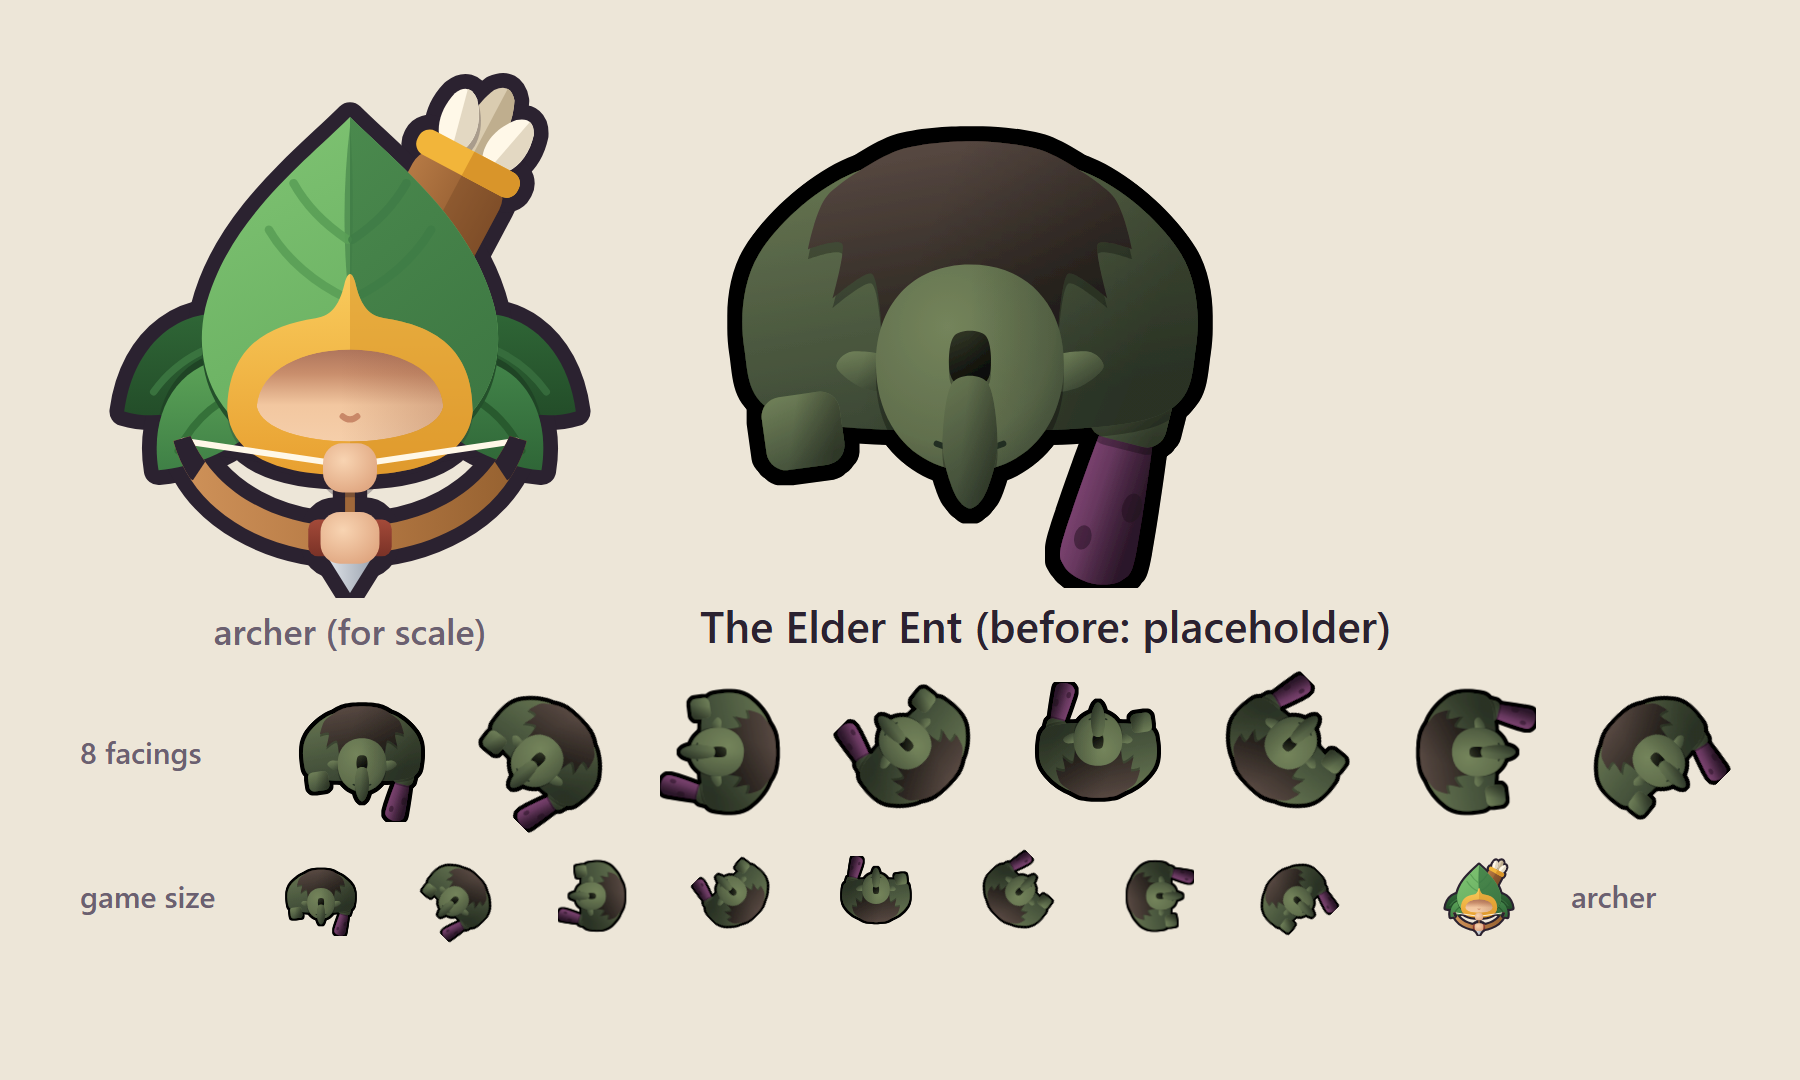
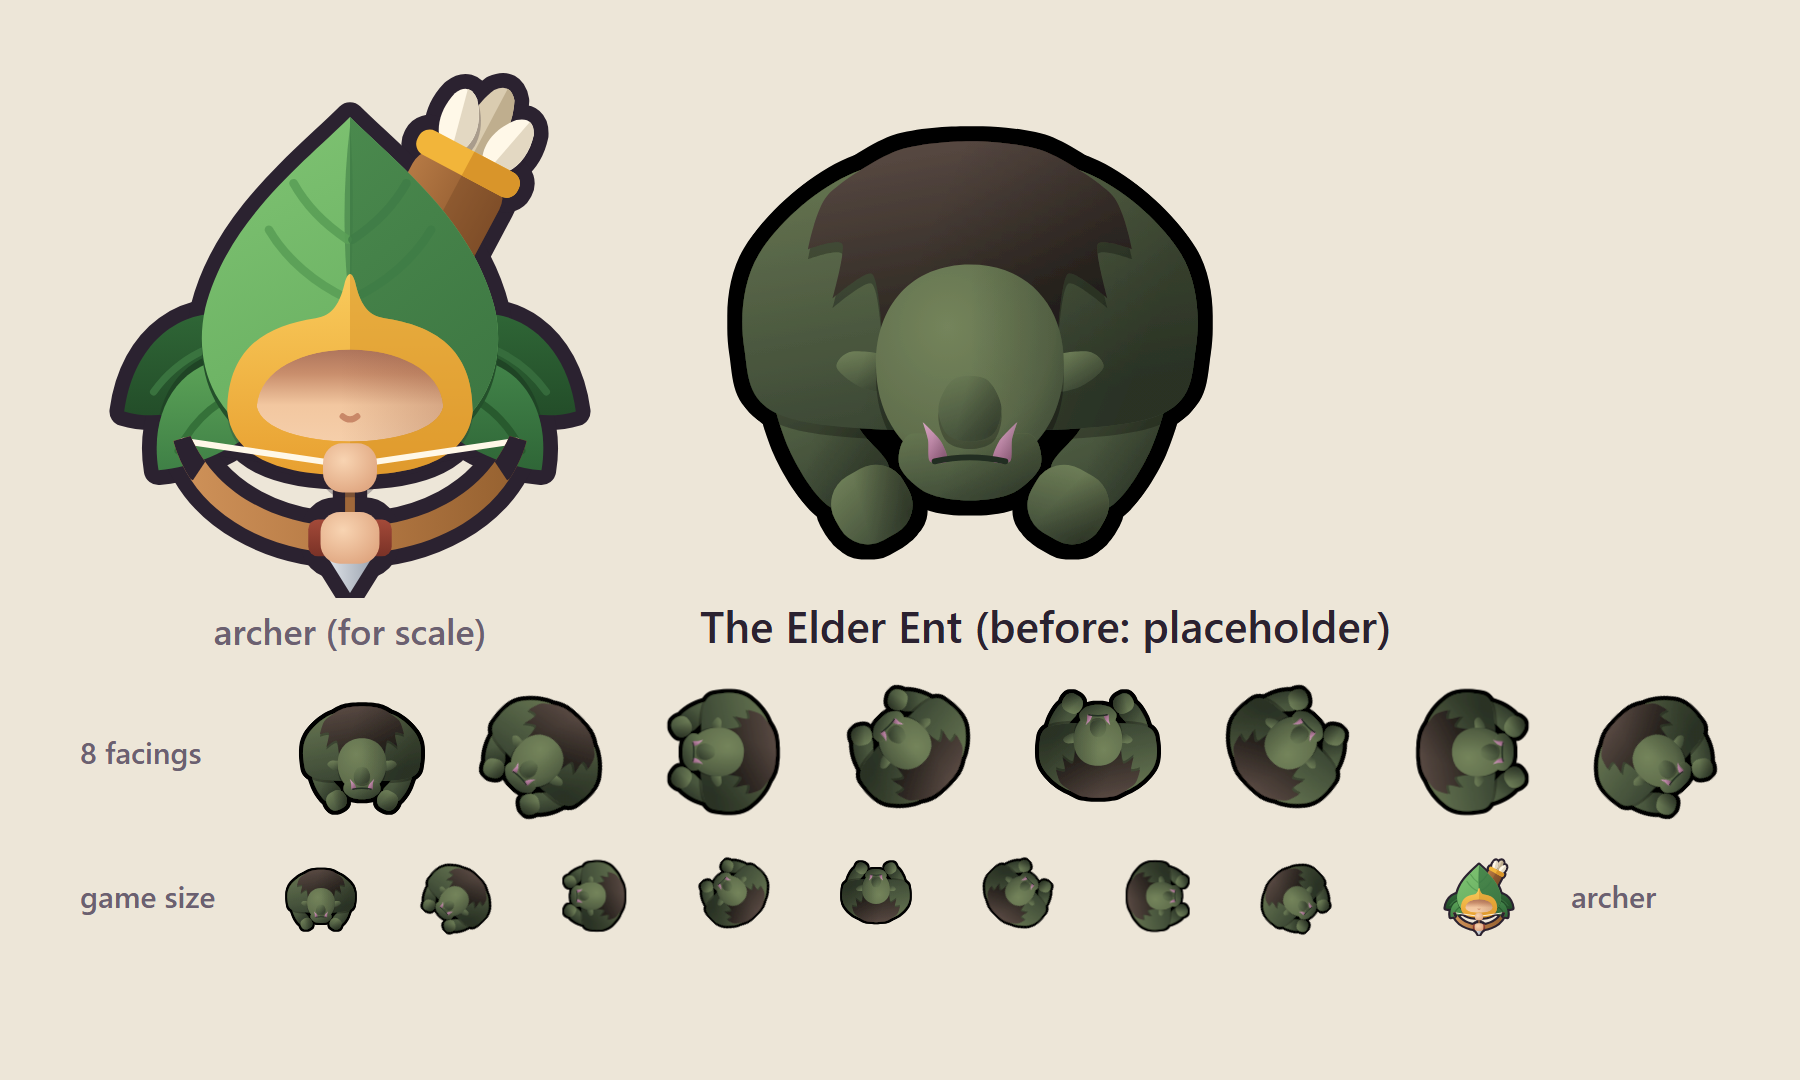
Art round 8: the greatsword held in front the Old Guard's way, the Elder Ent's ragged beard; check8 covers the croc and every round-8 file; notes

diff --git a/design/class-round8/_src/check8.py b/design/class-round8/_src/check8.py
@@ -1,7 +1,7 @@
 """Check the round-8 generators against the files the designer saw.
-1. A copy of this _src with every round-8 switch turned off (*_R8) must give the round-7 orc and ghosts and the round-6
-   troll (the "(before)" tile the troll note was on; also the game's art/enemies/troll.svg) byte for byte, so each
-   round-8 change is only what its switch adds.
+1. A copy of this _src with every round-8 switch turned off (*_R8) must give the round-7 orc and ghosts, the round-7
+   Croc A (the croc's two axes are CROC_R8) and the round-6 troll (the "(before)" tile the troll note was on, and the
+   game's troll before this round) byte for byte, so each round-8 change is only what its switch adds.
 2. build8.py must rebuild the committed round-8 files byte for byte.
 The copies are built in design/_check8 (deleted afterwards). python check8.py   (paths relative to this file)"""
 import re, sys, shutil, subprocess, pathlib
@@ -31,7 +31,7 @@ def copy_src(off):
 bad, n = [], 0
 try:
     src, found = copy_src(True)
-    need = {"ORC_R8", "GHOST_R8", "TROLL_R8"}
+    need = {"ORC_R8", "GHOST_R8", "TROLL_R8", "CROC_R8"}
     if need - found:
         bad.append(f"switches not found: {sorted(need - found)}")
     out = TMP / "off"
@@ -45,16 +45,17 @@ import greenskins as g, critters as c
 (out / "greenskin-troll.svg").write_text(g.troll().svg(), encoding="utf-8")
 for t in "ab":
     (out / f"ghost-{t}.svg").write_text(c.ghost7(t).svg(), encoding="utf-8")
-""", str(src / "E3"), str(out)], check=True, stdout=subprocess.DEVNULL)
+sys.path.insert(0, sys.argv[3])
+import croc8
+(out / "lizardman-croc-a.svg").write_text(croc8.croc(False), encoding="utf-8")
+""", str(src / "E3"), str(out), str(src)], check=True, stdout=subprocess.DEVNULL)
     refs = {"greenskin-orc.svg": R7 / "enemies/greenskin-orc.svg", "ghost-a.svg": R7 / "enemies/ghost-a.svg",
-            "ghost-b.svg": R7 / "enemies/ghost-b.svg", "greenskin-troll.svg": R6 / "enemies/greenskin-troll.svg"}
+            "ghost-b.svg": R7 / "enemies/ghost-b.svg", "greenskin-troll.svg": R6 / "enemies/greenskin-troll.svg",
+            "lizardman-croc-a.svg": R7 / "enemies/lizardman-croc-a.svg"}
     for name, ref in refs.items():
         n += 1
         if (out / name).read_bytes() != ref.read_bytes():
             bad.append(f"[off] {name} differs from {ref.relative_to(DESIGN).as_posix()}")
-    n += 1
-    if (R6 / "enemies/greenskin-troll.svg").read_bytes() != (HERE.parents[2] / "art/enemies/troll.svg").read_bytes():
-        bad.append("[off] the round-6 troll is not the game's art/enemies/troll.svg")
     # 2. build8.py -> the committed files
     src, _ = copy_src(False)
     subprocess.run([sys.executable, str(src / "build8.py")], check=True, stdout=subprocess.DEVNULL, cwd=src)

diff --git a/design/class-round8/_src/A2/bandits8.py b/design/class-round8/_src/A2/bandits8.py
@@ -76,7 +76,7 @@ def dagger(S, T, L=44):
     fist(S, 0, -6, T=T)
 
 
-def greatsword(S, T, L=72):
+def greatsword(S, T, L=84):
     S.shape(rr(0, -8, 10, 46, 4), "#4A3226", T=T, shadow=0)
     S.shape(circ(0, -32, 6.5), BRASS, T=T, shadow=0)
     blade = [(-11, 20), (11, 20), (10, L), (0, L + 18), (-10, L)]
@@ -125,8 +125,8 @@ def hood(S, col, tail=True):
 
 
 def kettle_hat(S, col="#8E96A4"):
-    S.shape(ell(100, 80, 62, 48), col, shadow=5, decor=f'<path d="{ell(100, 80, 52, 38)}" fill="{shade(col, 0.85)}" opacity="0.5"/>')
-    S.shape(ell(100, 76, 40, 36), col, shadow=4, decor=f'<path d="{ell(88, 64, 16, 11)}" fill="#F4F6FA" opacity="0.35"/>')
+    S.shape(ell(100, 78, 56, 44), col, shadow=5, decor=f'<path d="{ell(100, 78, 47, 35)}" fill="{shade(col, 0.85)}" opacity="0.5"/>')
+    S.shape(ell(100, 74, 37, 33), col, shadow=4, decor=f'<path d="{ell(89, 63, 15, 10)}" fill="#F4F6FA" opacity="0.3"/>')
 
 
 def fur_cap(S, col="#8A6A4A"):
@@ -178,13 +178,14 @@ def bandit_torch():
 
 def bandit_greatsword():
     S = Sprite("GREATSWORD BANDIT (round 8): the gang's tunic and red bandanna under an iron kettle hat with a broad round "
-               "brim; a big two-handed sword, both fists on the long grip at the right side, the blade forward and in "
-               "across the front (arm-r, before #body; no arm-l). " + LAYOUT)
-    S.group("arm-r", PR, "greatsword, both hands")
-    greatsword(S, frame(150, 126, 30))
+               "brim; a big two-handed sword held in front the Old Guard's way (the designer: two-handed weapons are held "
+               "in the middle, in front): both fists on the long grip at the front right, the wide blade forward and in "
+               "across the front (arm-r, after #body; no arm-l). " + LAYOUT)
     body(S, hair=False)
     masked(S)
     kettle_hat(S)
+    S.group("arm-r", PR, "greatsword, both hands, in front")
+    greatsword(S, frame(146, 116, 40))
     return save("enemies", "bandit-greatsword", S)
 
 

diff --git a/design/class-round8/_src/A2/grove8.py b/design/class-round8/_src/A2/grove8.py
@@ -202,9 +202,10 @@ def elder_ent():
             decor=strokes("M 82 58 L 86 96 M 118 58 L 114 96 M 100 54 L 100 82", DOLD, 3.5, 0.45)
                   + f'<path d="{ell(100, 102, 42, 10)}" fill="{DOLD}" opacity="0.4"/>')
     # the long mossy beard over the chest, the mouth above it
-    beard = blob([(70, 128), (86, 134), (100, 136), (114, 134), (130, 128), (134, 146), (126, 164), (116, 178), (106, 190),
-                  (100, 198), (94, 190), (84, 178), (74, 164), (66, 146)], 0.75)
-    S.shape(beard, "#5E7E44", shadow=4, decor=strokes("M 84 140 L 92 180 M 100 142 L 100 192 M 116 140 L 108 180", "#4A6A36", 3, 0.6))
+    # a ragged mossy beard: tufts hanging in uneven points (round 8: one smooth point read as a leaf)
+    beard = blob([(68, 128), (86, 134), (100, 136), (114, 134), (132, 128), (136, 146), (130, 164), (124, 160), (120, 178),
+                  (112, 172), (106, 192), (100, 182), (94, 194), (88, 172), (80, 178), (76, 160), (70, 164), (64, 146)], 0.6)
+    S.shape(beard, "#5E7E44", shadow=4, decor=strokes("M 86 140 L 90 168 M 100 142 L 100 178 M 114 140 L 110 166", "#4A6A36", 3, 0.6))
     S.shape(blob([(86, 112), (100, 108), (114, 112), (118, 126), (100, 134), (82, 126)], 0.9), "#241C1A", shadow=0, side=False)
     S.shape(ell(122, 66, 12, 7), MOSS, shadow=2)
     return save("enemies", "wild-elder-ent", S)

diff --git a/design/class-round8/_src/build8.py b/design/class-round8/_src/build8.py
@@ -73,6 +73,16 @@ def build(want=()):
         BOARDS.mkdir(parents=True, exist_ok=True)
         (BOARDS / "greenskin-troll-boulder.svg").write_text(both, encoding="utf-8")
         made.append(BOARDS / "greenskin-troll-boulder.svg")
+    # part 2: the new generators (each writes its own files into ../enemies), and the croc (Croc A with two axes)
+    import subprocess
+    if not want or any(n.startswith(("wild-", "bandit-", "sewer-")) for n in want):
+        for script in ("A2/wild8.py", "A2/bandits8.py", "A2/bandits8_more.py", "A2/grove8.py", "A2/sewer8.py"):
+            out = subprocess.run([sys.executable, str(HERE / script)], check=True, capture_output=True, text=True).stdout
+            made += [R8 / line.strip() for line in out.splitlines() if line.strip().endswith(".svg")]
+        import croc8
+        ENEMIES.mkdir(parents=True, exist_ok=True)
+        (ENEMIES / "sewer-croc.svg").write_text(croc8.croc(), encoding="utf-8")
+        made.append(ENEMIES / "sewer-croc.svg")
     return made
 
 

diff --git a/design/class-round8/notes.md b/design/class-round8/notes.md
@@ -1,14 +1,56 @@
 # Art round 8 (lane A, after the round-9 answers): the art-round7 notes, then real art for the placeholder kinds
 
-Part 1 starts from the exact file the designer saw: the round-7 generators were copied into `_src/E3/` and checked to
-rebuild the round-7 files (and the round-6 troll, `art/enemies/troll.svg`) byte for byte before anything changed; each
-change sits behind a switch (`ORC_R8`, `GHOST_R8`, `TROLL_R8`) with the note quoted, and `_src/check8.py` turns them
-off and checks the copies still give the files the designer saw. Renders: `<folder>/renders/<name>.png` (the board:
-big beside the archer, 8 facings, game size) with `<name>-before.png` beside it: the tile the note was on (part 1), or
-the placeholder the game showed (part 2). Scripts: `_src/build8.py`, `_src/render8.py`, `_src/check8.py`,
-`_src/game8.py` (the game copies), `_src/look.py` (scratch look-over sheets into `tools/riffle/out/r8`).
+Part 1 starts from the exact file the designer saw: the round-7 generators were copied into `_src/` (`E3/`, `E1r4/`)
+and checked to rebuild the round-7 files (and the round-6 troll, the game's troll until now) byte for byte before
+anything changed; each change sits behind a switch (`ORC_R8`, `GHOST_R8`, `TROLL_R8`, `CROC_R8`) with the note quoted,
+and `_src/check8.py` turns them off and checks the copies still give the files the designer saw, then checks
+`_src/build8.py` rebuilds this folder byte for byte. Part 2 is new art in the heroes' bust style, built with the A2
+library the heroes were made with (`_src/A2/wild8.py`, `bandits8.py`, `bandits8_more.py`, `grove8.py`, `sewer8.py`).
+Renders: `<folder>/renders/<name>.png` (the board: big beside the archer, 8 facings, game size) with `<name>-before.png`
+beside it: the tile the note was on (part 1), or the placeholder the game showed, in its variant's colours (part 2,
+`_src/befores.py`). Scripts: `_src/build8.py`, `_src/render8.py`, `_src/check8.py`, `_src/game8.py` (the game copies),
+`_src/look.py` (scratch look-over sheets into `tools/riffle/out/r8`).
 
 ## Part 1: the notes
 - **Orc** (`enemies/greenskin-orc.svg`), "Wider mouth": the mouth line runs x 74..126 (it ran 84..116), same height, bow and line; the tusks stay where they were, still coming up out of the mouth. Nothing else.
 - **Ghost A** and **Ghost B** (`enemies/ghost-a.svg`, `ghost-b.svg`), "Remove the sliver on their back for this and the other ghost I liked": the narrow darker fold that ran from the middle of the head back into the tail is gone on both. Nothing else.
-- **Troll** (`enemies/greenskin-troll.svg`, its boulder `props/troll-boulder.svg`; board `boards/greenskin-troll-boulder.svg`), on the round-6 troll ("Liked this ones overall shape more. Fix face and make like 2x bigger overall and will look pretty good. Also needs a boulder"): the round-6 hump, moss patch, small head and ears as they were; the face: the drooping nose (read as a trunk) and the dark patch above it (a hole) are gone, a big round nose and a heavy underbite with two small tusks coming up out of the mouth instead; a boulder: both fists reach forward on long arms and rest on a big round grey boulder in front of it (the game's boulder is its own object, so it is a prop of its own; the log club is gone, the boulder is its weapon); 2x: in the game it is now twice the archer across (js/enemies.js r 42 -> 60, vr 31 -> 44, mass 3 -> 6), and the board shows it at that size.
+- **Troll** (`enemies/greenskin-troll.svg`, its boulder `props/troll-boulder.svg`, the board `boards/greenskin-troll-boulder.svg`), on the round-6 troll ("Liked this ones overall shape more. Fix face and make like 2x bigger overall and will look pretty good. Also needs a boulder"): the round-6 hump, moss patch, small head and ears as they were; the face: the drooping nose (it read as a trunk) and the dark patch above it (a hole) are gone, a big round nose and a heavy underbite with two small tusks coming up out of the mouth instead; the boulder: both fists reach forward on long arms and rest on a big round grey boulder with a tuft of moss (the game's boulder is its own object, so it is a prop of its own; the log club is gone, the boulder is its weapon); 2x: in the game it is now twice the archer across (it was 1.4x; js/enemies.js r 42 -> 60, vr 31 -> 44, mass 3 -> 6), and its board shows it at that size beside the archer.
+- **Troll A, mohawk -> the Chieftain** (`enemies/greenskin-chieftain.svg`), "Keep this but not as a troll": kept exactly (the same shapes and colours, only its comment differs) and made the Warren's chieftain, the boss the designer renamed ("The Warboss: Chieftain. More abilities."): the red war crest, the big tusks and the club read as the tribe's chief, and beside the Warren's hunched trolls it stands upright on its shoulders. In `art/enemies/chieftain.svg` for the boss lane; the game still draws the Warboss as the orc.
+
+## Part 2: the kinds that wore placeholders
+- **Wolf** (`enemies/wild-wolf.svg`): the designer on Call Wolf, "capsule shaped ... too complex ... match the werewolf": one rounded capsule of a warm grey body, a bushy tail with a dark tip, the werewolf's round skull, laid-back ears with the dusky inner ear, long snout with a pale muzzle and dark nose, his scalloped ruff and his paws with three short white claws. The druid's called wolf wears it too.
+- **Dire wolf** (`enemies/wild-dire-wolf.svg`): the wolf in black and smoke grey with a mane of pointed tufts lying back over the shoulders (the game draws it 1.25x).
+- **The Alpha** (`enemies/wild-alpha.svg`): the giant wolf in pale silver, a great tufted mane, one ear torn, an old scar across the brow in one darker shade, bigger paws.
+- **Bandit, sword and shield** (`enemies/bandit-sword.svg`): the gang's look on the heroes' base (rag-edged leather tunic, the Bandit hero's red bandanna, no eyes), brown hair under the navy head scarf knotted at the back; a short sword under the right shoulder, a round wooden buckler with an iron boss in the left hand.
+- **Torch bandit** (`enemies/bandit-torch.svg`): the same gang look under a rust-brown hood with its tail lying back; a short sword and a burning torch held out in front.
+- **Greatsword bandit** (`enemies/bandit-greatsword.svg`): an iron kettle hat with a round brim; a big two-handed sword held in front the Old Guard's way, both fists on the long grip, the wide blade across the front.
+- **Axe bandit** (`enemies/bandit-axe.svg`): a fur cap with a pale fur rim; a big hand axe under the right shoulder, the blade turned in (the designer's way with the werewolf's hatchet), the left hand free.
+- **Spear bandit** (`enemies/bandit-spear.svg`): a leather cap with a red feather lying back; a long spear under the right shoulder, the point well forward.
+- **Knife bandit** (`enemies/bandit-daggers.svg`): a dark slate hood drawn low; a dagger in each hand, both under the shoulders, a little apart.
+- **Poacher** (`enemies/bandit-poacher.svg`): a woodland hunter, not one of the masked gang: a drab olive hood (not the archer's leaf green) with its tail lying back, a short scruffy beard, a grey fur mantle; a short dark recurve bow in front with its string (the game draws it to the drawing hand) and an arrow; a rolled net on the back for the net it throws.
+- **Bandit brute** (`enemies/bandit-brute.svg`): the gang's heavy: bald and scarred over the red bandanna, broad patched leather shoulders with a shaggy collar; a big studded club with short iron spikes, a bare fist in leather wraps.
+- **The Bandit Chief** (`enemies/bandit-chief.svg`): a black tricorn with a gold edge and a red plume, the gang's red bandanna, a black coat with a high collar and gold trim, throwing knives on a bandolier over the left shoulder; a gold-hilted cutlass and a smoke bomb with a lit fuse.
+- **Thornback boar** (`enemies/wild-boar.svg`): the wolves' capsule build: a dark bristly body with two staggered rows of big pale thorns down the spine (the thorns its elite sheds), a tufted tail, small ears, a pink-grey snout disc, two big curved tusks (a #front part, over the swinging front legs), two hooves.
+- **Sproutling** (`enemies/wild-sproutling.svg`): a small walking sapling: a round green bud with two big seed leaves fanned back over it and a curled shoot between them, a collar of small leaves for shoulders, twig arms ending in leafy hands. No face.
+- **Ent** (`enemies/wild-ent.svg`): a walking tree: a leafy crown on its back (#back, sways), bark shoulders with moss, a bark head with a dark knot-hole mouth and two branch stubs from the brow, thick branch arms with knotty wooden fists and twig fingers.
+- **Wisp** (`enemies/wild-wisp.svg`): a floating light: a round glowing lime orb, a flickering flame tail streaming back (#back), two little wisps of flame for hands. No face.
+- **The Elder Ent** (`enemies/wild-elder-ent.svg`), big, built in parts: a great crown of dark leaves over its back (#back, sways), a massive grey-brown trunk with moss and pale shelf fungus on the shoulders, antler-like branches from the brow, a broad bark face with a deep knot-hole mouth over a ragged mossy beard, two huge branch arms with root claws (arm-l, arm-r, swing).
+- **Rat king** (`enemies/sewer-rat-king.svg`), "a jumble of rats ... more effort than the rat sprite layered on itself": a heap of rats of different sizes, furs and poses (each with its own round rump, pointed head turned on its neck, round pink ears, pink nose), heads out unevenly on all sides, their pink tails knotted over the middle and loose ends hanging out behind; the king on top at the front, biggest, with a little gold crown; the two front rats are the arm parts (they lunge when it bites), the two at the back sway. The game no longer adds the springy rat tail to it.
+- **Croc** (`enemies/sewer-croc.svg`), "Has 2 axes, bite is an ability": the picked Croc A (round 7) with a heavy axe in each clawed fist, both under the shoulders, the blades turned in; the bone club and the turtle shell are gone (`CROC_R8`).
+- **Sewer crab** (`enemies/sewer-crab.svg`): a wide rusty-red shell with a smooth armoured front lip ("armoured from the front"), four jointed legs a side (#back), two big pincers forward (arm parts, they snap when it pinches); its blue and green kinds are this art turned by the game (hue 180 and 90), which lands on blue and green.
+
+## In the game (`_src/game8.py`, and the defs)
+- `art/enemies/`: orc.svg (the Orc and the Warboss), ghost.svg (Ghost A is now the Crypt's ghost; Ghost B is `ghost-b.svg`, unused, for the cold ghost the roster asks for), troll.svg (the troll and the rock troll), chieftain.svg (unused), and new files for every part-2 kind; `art/props/troll-boulder.svg`; `art/summons/wolf.svg` (the called wolf).
+- js/wildwood.js, js/foes9.js, js/elderent.js point at them, the recolours that faked them are gone, and headR is set so the body fills the collider (body half-width x vr / r): wolf 35 (also the called wolf), dire wolf 35 (x1.25), Alpha 40, bandits and poacher 54, brute 64, chief 54, boar 41, sproutling 34, ent 59, wisp 34, Elder Ent 66, rat king 66, croc 56, crab 57, wolf rider 34 (the new wolf recoloured).
+- The troll: r 60, vr 44, mass 6; its boulder is the `troll-boulder` prop, held in its fists: foes9.js `HOLD` puts a held boulder 0.46 of the troll's radius inside its collider, and sim.js doesn't push a troll and its own held (or still rolling) boulder apart or steer it round it. render.js draws the springy rat tail only on hand-drawn rats.
+- Checked on `python -m http.server 8871`: `tools/labshot.mjs` sheets of every kind in every pose, lab fights (`&foes=` added to the lab's fight mode) with the trolls and boulders and the Sewer kinds, and `tools/clip.mjs` runs in the Wildwood (`theme=wildwood&allnodes=1`) and its boss room: no page errors.
+
+## Still weak
+- The troll's "2x" is read as twice the archer (on the board they looked the same size); in the game it is 1.45x the old troll. The arms reaching forward to the boulder change its outline at the front; the club is gone.
+- The Chieftain is a name and a place, not a change: if "not as a troll" meant it should look like something else, its teal skin is still the trolls' colour.
+- The wolves' ruff and the dire wolf's and Alpha's tufted manes are the busiest parts at game size; the Alpha's white mane edge reads a little like a collar.
+- The bandits differ by headgear and weapon only (the gang shares the red bandanna); the poacher's bow sits where the archer's does, smaller and darker.
+- The greatsword is short for a greatsword (the box limits it); the spear and daggers are thin at game size.
+- The rat king's many pink ears and noses make it busy; it reads as a heap of rats up close, a spiky brown blob at game size.
+- The Elder Ent and the ent share their build; the Elder Ent is set apart by its grey bark, antlers, beard, fungus and size.
+- Part-2 boards are drawn at the box size like every round; only the troll's board is at its game size.
